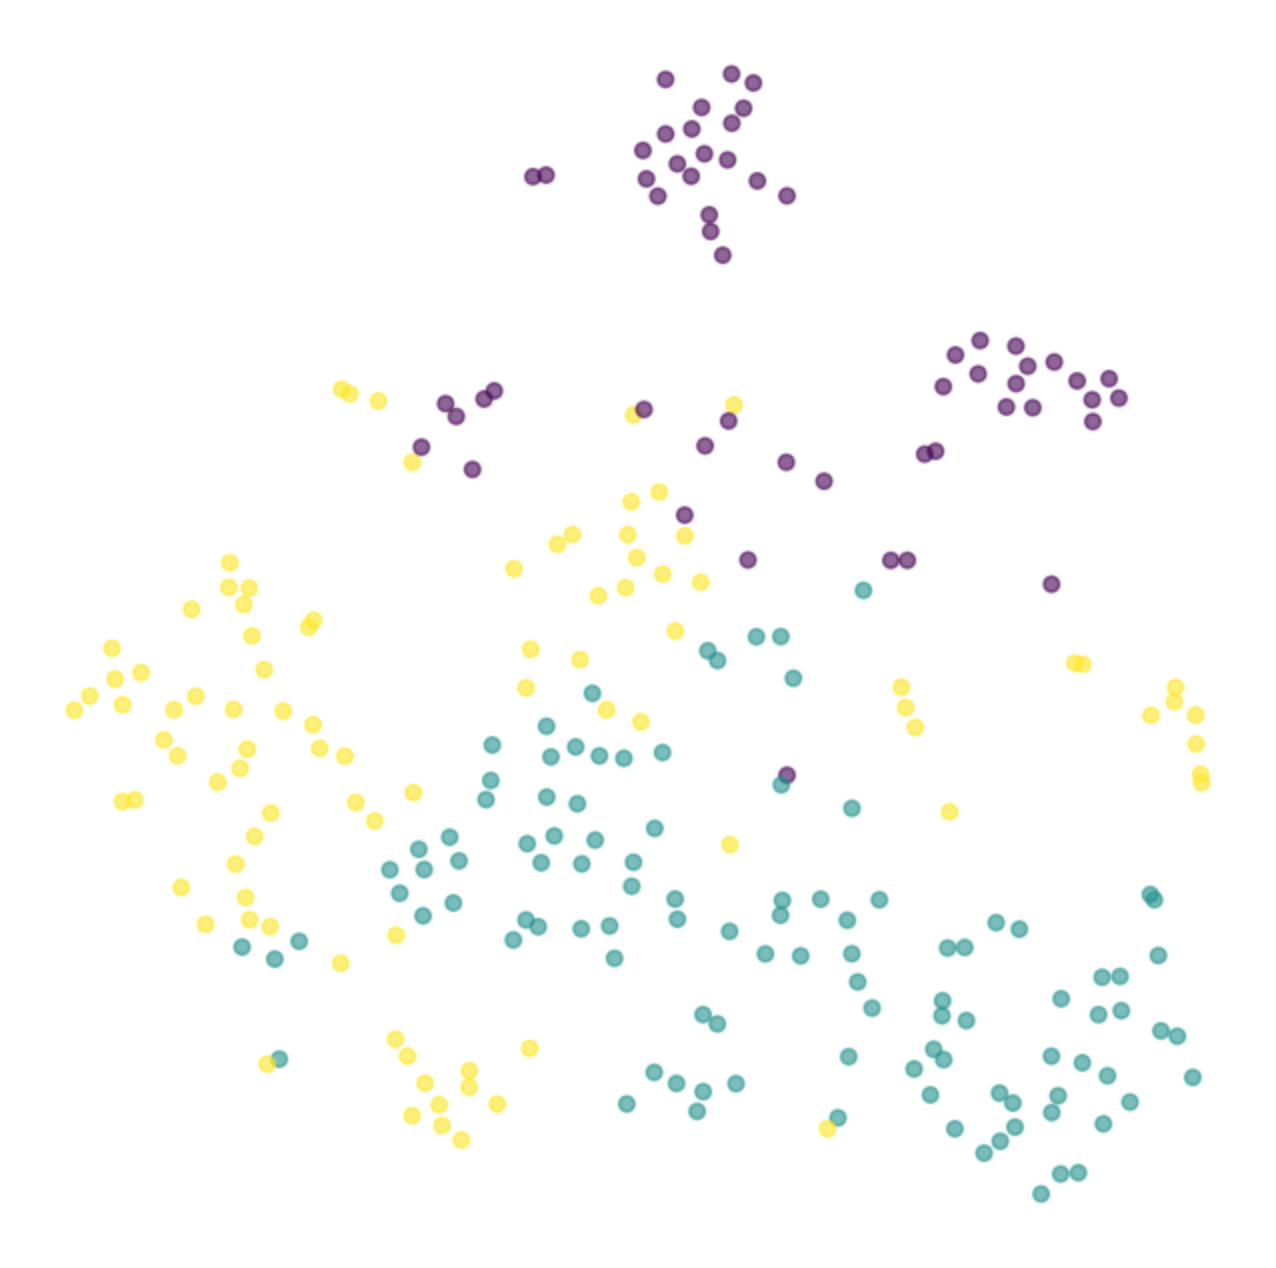
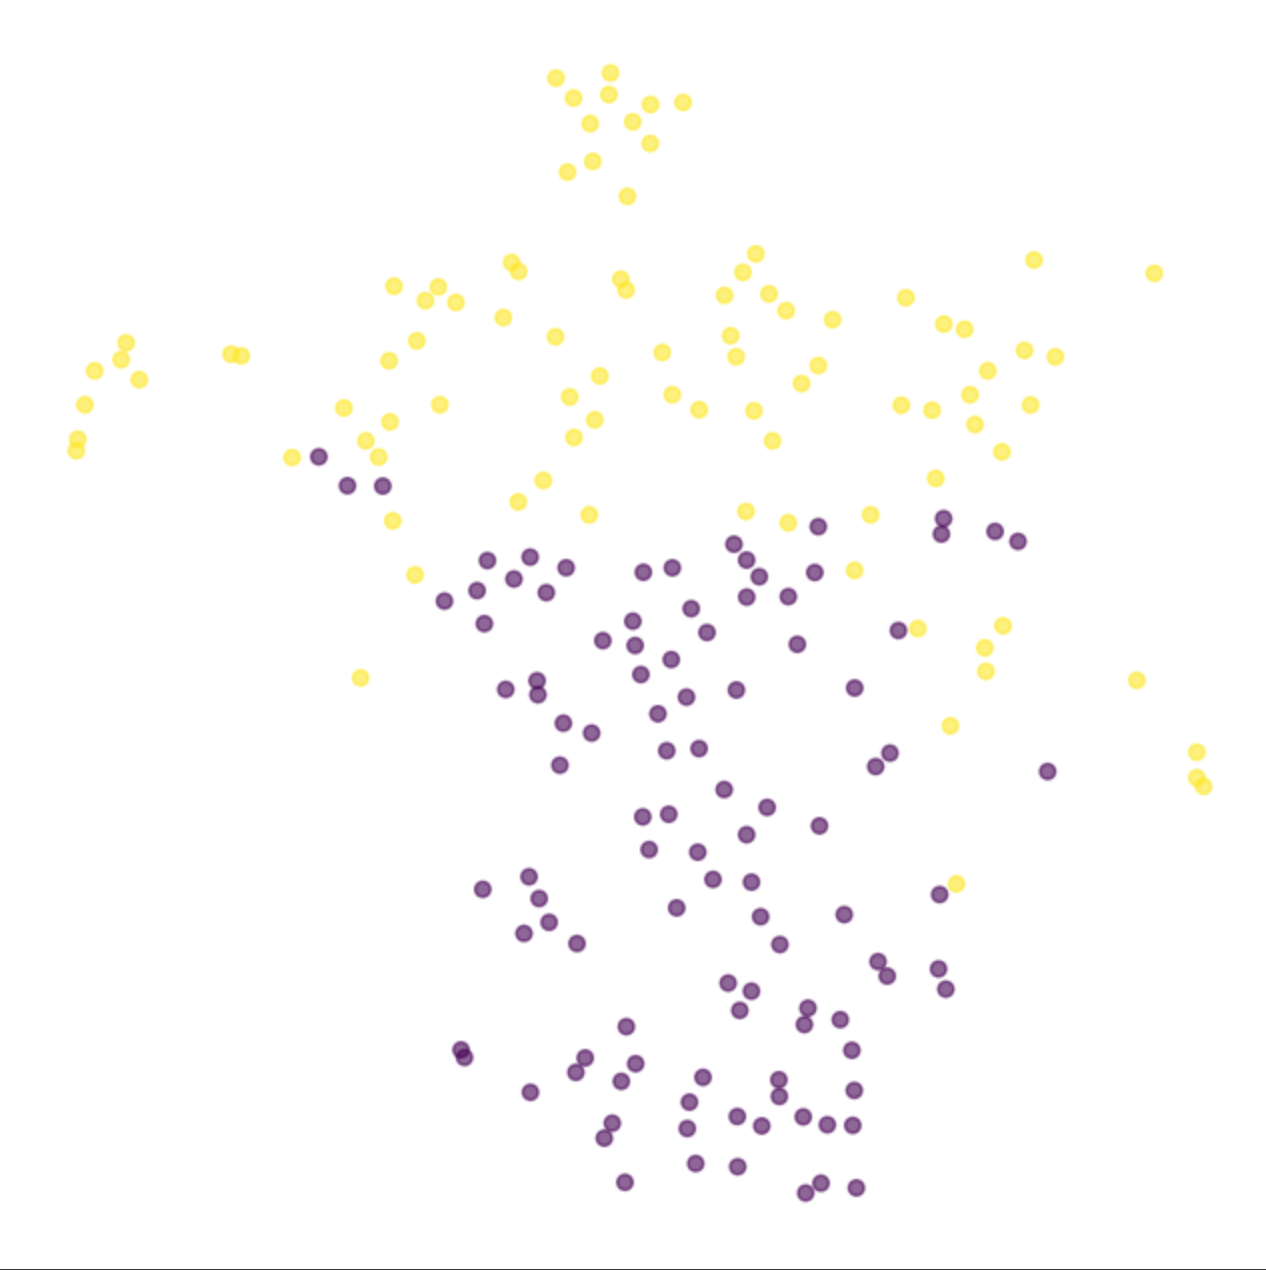
clusteri update

diff --git a/chapters/seose_leidmine.tex b/chapters/seose_leidmine.tex
@@ -59,7 +59,7 @@ esile objektide ja piirkondade klassipõhised seosed. Pildil on väljatoodud kla
     \centering
     \includegraphics[width=.7\textwidth]{figures/seose_leidmine/tsneDinoPatchEmbedings.png}
     \caption{T-SNE kluster analüüs DinoV2 mudeli väljunditest}
-    \caption*{kollane - mets, lilla - lageraie, roheline - taust}
+    \caption*{kollane - mets, lilla - lageraie}
     \label{fig:tsneDinoPatchEmbedings}
 \end{figure}
 
